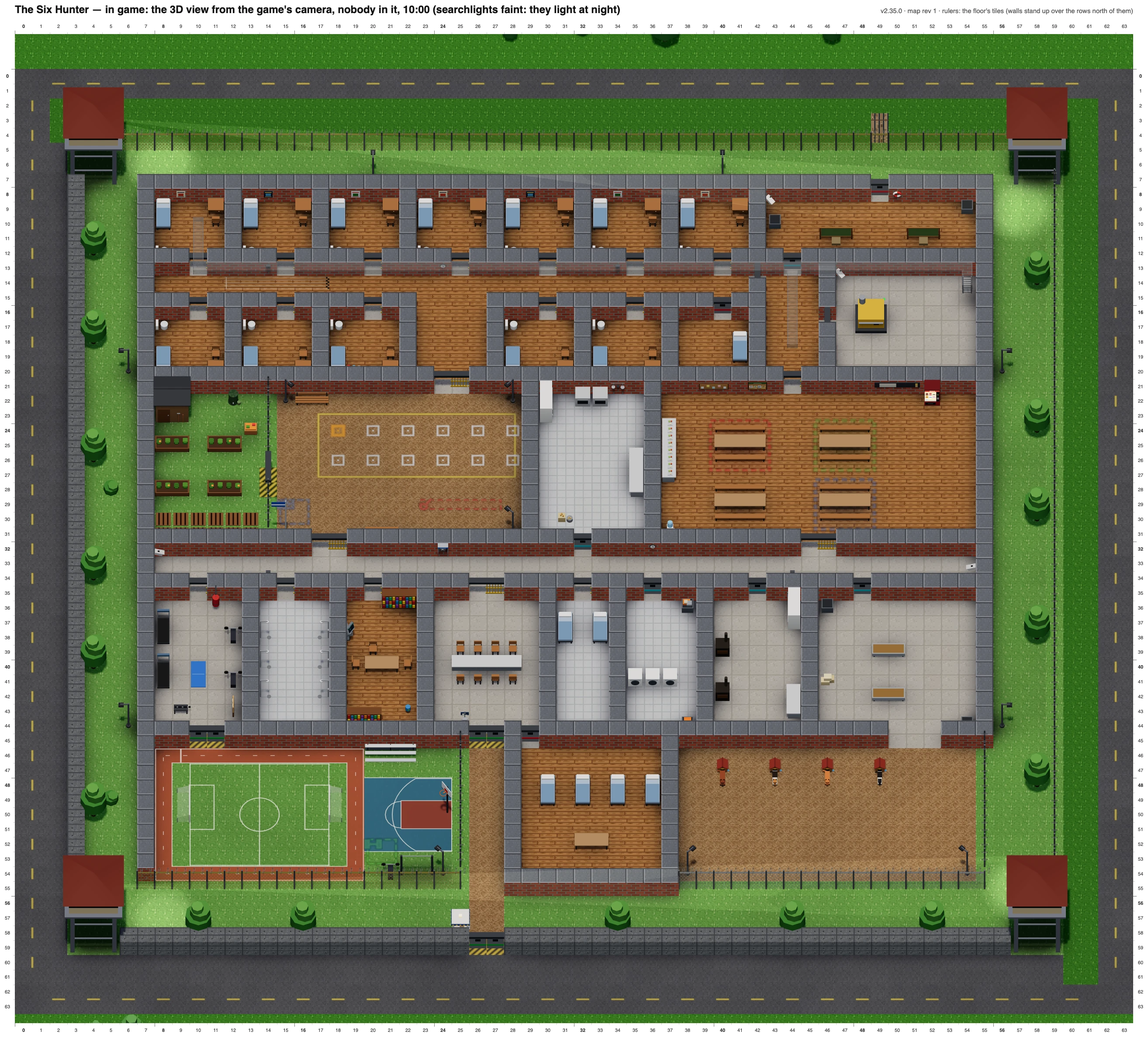
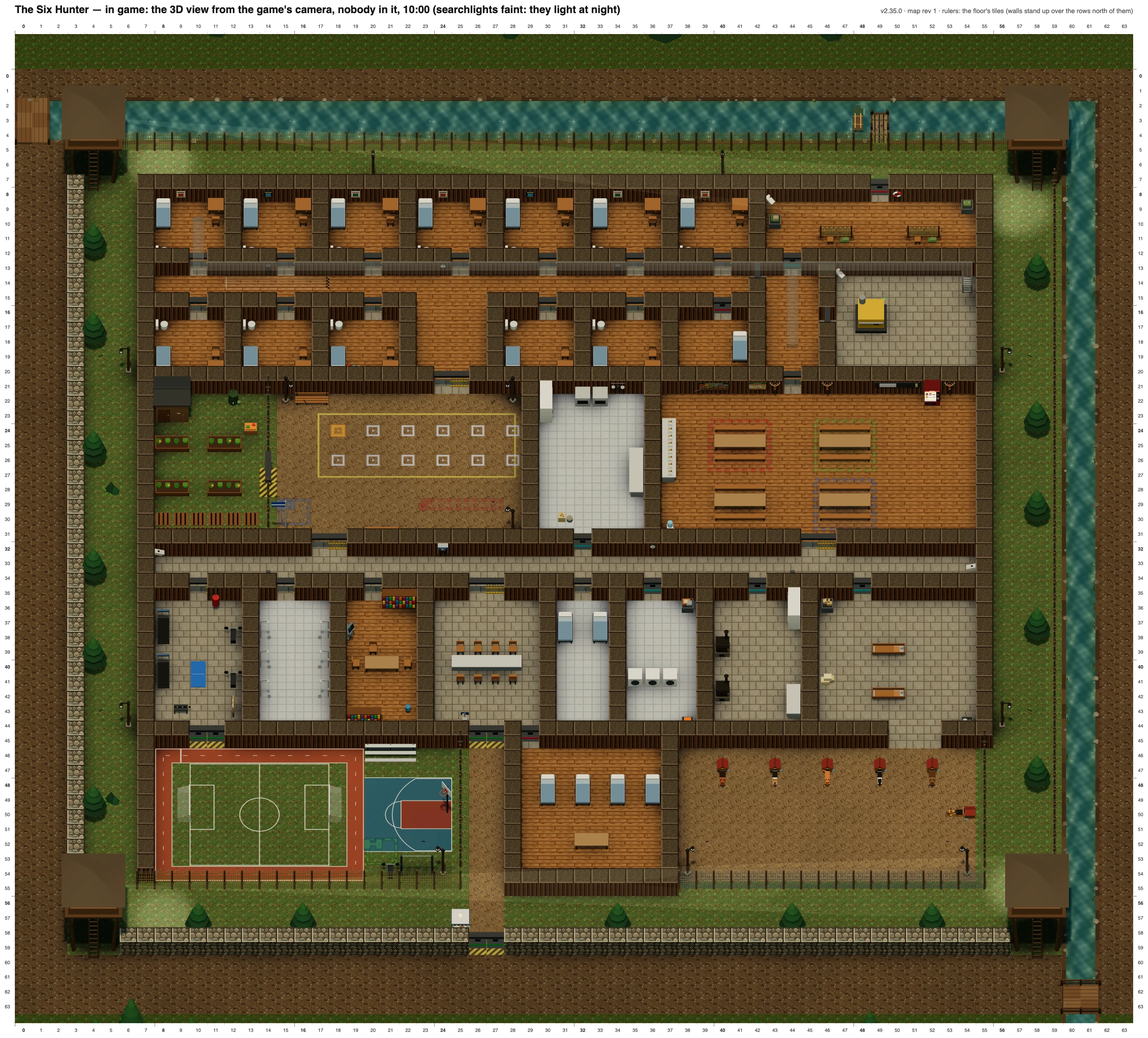
The Six Hunter (look): the map viewer's two 3D photos retaken, its six perfprobe scenes recorded (in Shankton's and Irongate's range; the other 36 in budget), the docs (phases/9-six-hunter.md's look done, the history line, POLISH's limits) (77 tests green)

diff --git a/docs/phases/9-six-hunter.md b/docs/phases/9-six-hunter.md
@@ -122,17 +122,27 @@ Done in the core: the definition and folder, zones (append-only) and light rules
 achievements, gangs, the outside's data, the `forest` theme in every `Record<Theme>` (placeholders), the text in
 English and French, the bots and tests, the map viewer's pictures and a first "In game" photo.
 
-**The look** (owes): the forest theme's textures (`render/textures.ts`, `forest: {}` for now), its scenery trees,
-ground, dust, lights and holiday pieces (`WorldView`, `View`, `ground.ts`, `Holidays.ts`); **the river's render**
-(inland water draws as grass: only `Island.ts` draws water today), the jetty; models for the `trough`, `smoker`
-and `netFrame` (first boxes in `render/props.ts`), the new items' shapes (stand-ins in `items.ts`), the hound
-coats' look (`render/Dog.ts`), the kennels, the tally board (a notice board for now), hunting stands; sound
-(`soundAmbience.ts`: pines, owls, a horn at dawn, hounds), the horn's and the drag line's events (`horn`,
-`dragLine`) in the view; the manhunt outside's 3D as a forest (`huntTown.ts`, `huntLand.ts`); the map photos
-retaken (`mapshot.ts`).
+**The look** (done, 2.36): the `forest` textures (`textures.ts` `FOREST`: pine-needle loam and moss, packed earth,
+a muddy track with no road paint, flagstones, board-and-batten timber under a dark cedar cap, fieldstone and its own
+`stoneCap` (session 14's lit and shaded edges; the roofs' copings too), cedar shakes, a deer fence of graduated wire on
+round timber posts); Scots pines round the prison (`pine()`, 420, chunked) and in the grounds (`decor.ts`' tree and a
+juniper by theme); hunting stands for the towers; iron lanterns on timber posts where the lamps stand (no lamp moved:
+the dark rule is the same); the forest's light (`viewLight.ts` `FOREST_DAY`: a low gold sun, a misty teal sky and fill,
+moss in the bounce), a teal-white valley mist (`Weather.ts`), needles drifting down (`Snow.ts` `LEAVES`, off with
+reduced motion, dimmed at night), needle dust underfoot. **The river** (`render/River.ts`): every water tile and the
+river on past the map under the road's two timber bridges, one mesh, a flow map running it downstream (east, round the
+bend, south; still with reduced motion), paler at the banks, the banks a lip of mud with stones and reeds; the jetty's
+piles, a rowing boat, the raft drifting away downstream on a raft escape. The trough, smoker and net frame modelled,
+the smoker's fire and smoke, the scoop and the mending needle at work (`WorkGear.ts`); the ten items' and the six job
+items' models (`itemModels.ts`) and grips; the ghillie cloak worn (tufts and a hood: `Look.ghillie`); six hounds drawn
+(`Dog.ts` held four), the foxhound's and bloodhound's coats; the Hunters' tally board and stags' heads in the Trophy
+Hall. Sound: wind in the pines, woodpecker, wood pigeon and finch by day, a tawny owl and far hounds at night, the
+Huntmaster's horn at 06:00, the recall horn's call and the drag line's whip and slap. The manhunt's valley: its river
+running with banks, stony fords with stepping stones, bramble thickets, mossy rocks, timber houses under shakes, log
+stacks, the sawmill's timber train. The select card's art (`.theme-forest .pc-scene`).
 
 **The finish** (owes): the prison select's sixth card and its stars (`ui/screens/prisons.ts`, `daily.ts` draw 5;
-`13-campaign.css` lays out 5), the card art (`.theme-forest .pc-scene`); a How to play topic (`helpTopics.ts`,
-`prison: 'six-hunter'`) and its picture (`helpshot.ts`); the drawhash, perfprobe and hitchprobe scenes and
-`perfbudget.json`; the README's screenshot; a lesson or first-day hints for the horn and the drag line if wanted;
+`13-campaign.css` lays out 5); a How to play topic (`helpTopics.ts`,
+`prison: 'six-hunter'`) and its picture (`helpshot.ts`); the README's screenshot (the drawhash, perfprobe and
+hitchprobe scenes were there already; `perfbudget.json`'s six recorded by the look); a lesson or first-day hints for the horn and the drag line if wanted;
 the screens swept at the eight sizes in both languages.

diff --git a/docs/POLISH.md b/docs/POLISH.md
@@ -42,4 +42,4 @@ and tested when it shipped, but no polish pass, so nothing is known either way.
 | Side games (dice, arm-wrestling, cards, hoops, checkers) | | Not reviewed | | |
 | Long games (pruno, garden, rats) | | Not reviewed | | |
 | Pay phone, kiosk and paperwork | | Not reviewed | | |
-| The Six Hunter | 2.36.0 | Partly | Claude's picks (the user's goal of 2026-11-07: the sessions run on their own): level 6, out of the Daily; the forest theme; six Hunters each with a hound, no takeover; the kennel hand first (the pack fed from the player's hands); ten items found or made only there; the recall horn an hour of game time. | The core only: the forest's look, the river's render, the models, sound, the select card's sixth star, How to play and the perf scenes are the next two members' (`phases/9-six-hunter.md`). The outside follows Stalag Flucht's valley, two hounds out. Not played by hand in the browser. |
+| The Six Hunter | 2.36.0 | Partly | Claude's picks (the user's goal of 2026-11-07: the sessions run on their own): level 6, out of the Daily; the forest theme; six Hunters each with a hound, no takeover; the kennel hand first (the pack fed from the player's hands); ten items found or made only there; the recall horn an hour of game time. | The look's limits: the tally board's strokes are painted (the sim keeps no count of recaptures); the river runs east then south everywhere, no eddies; the kennels keep their red roofs; the dawn horn sounds at 06:00 asleep or awake. The select card's sixth star and How to play are the finish's (`phases/9-six-hunter.md`). The outside follows Stalag Flucht's valley, two hounds out. Not played by hand in the browser. |

diff --git a/docs/history/v2.35-v2.39.md b/docs/history/v2.35-v2.39.md
@@ -350,5 +350,8 @@ Every release in this range, in order: what changed, what the reviews found and 
     job planted in a full pocket (`liftGuards` skips full kits); the kennels split from their run. The review:
     the job's trust disarmed the pack (now +10, capped at 40, fading on a missed day); the outside a copy of
     Stalag's (redrawn); the drag line's pull, the horn's reach, the antler's quiet and card lines made true.
-  - **Not checked:** the look, the finish, a hand play in the browser, a real phone.
+  - **Look:** the forest theme, pines, stands, lanterns, the river (`River.ts`: flowing, banks, bridges,
+    jetty, a raft away), the machines, items, six hounds drawn (four were), ghillie cloak, tally board, light,
+    mist, needles, sounds, the valley outside, the card; `drawhash`: only its frames moved; perf in budget.
+  - **Not checked:** the finish, a hand play in the browser, a real phone.
 
